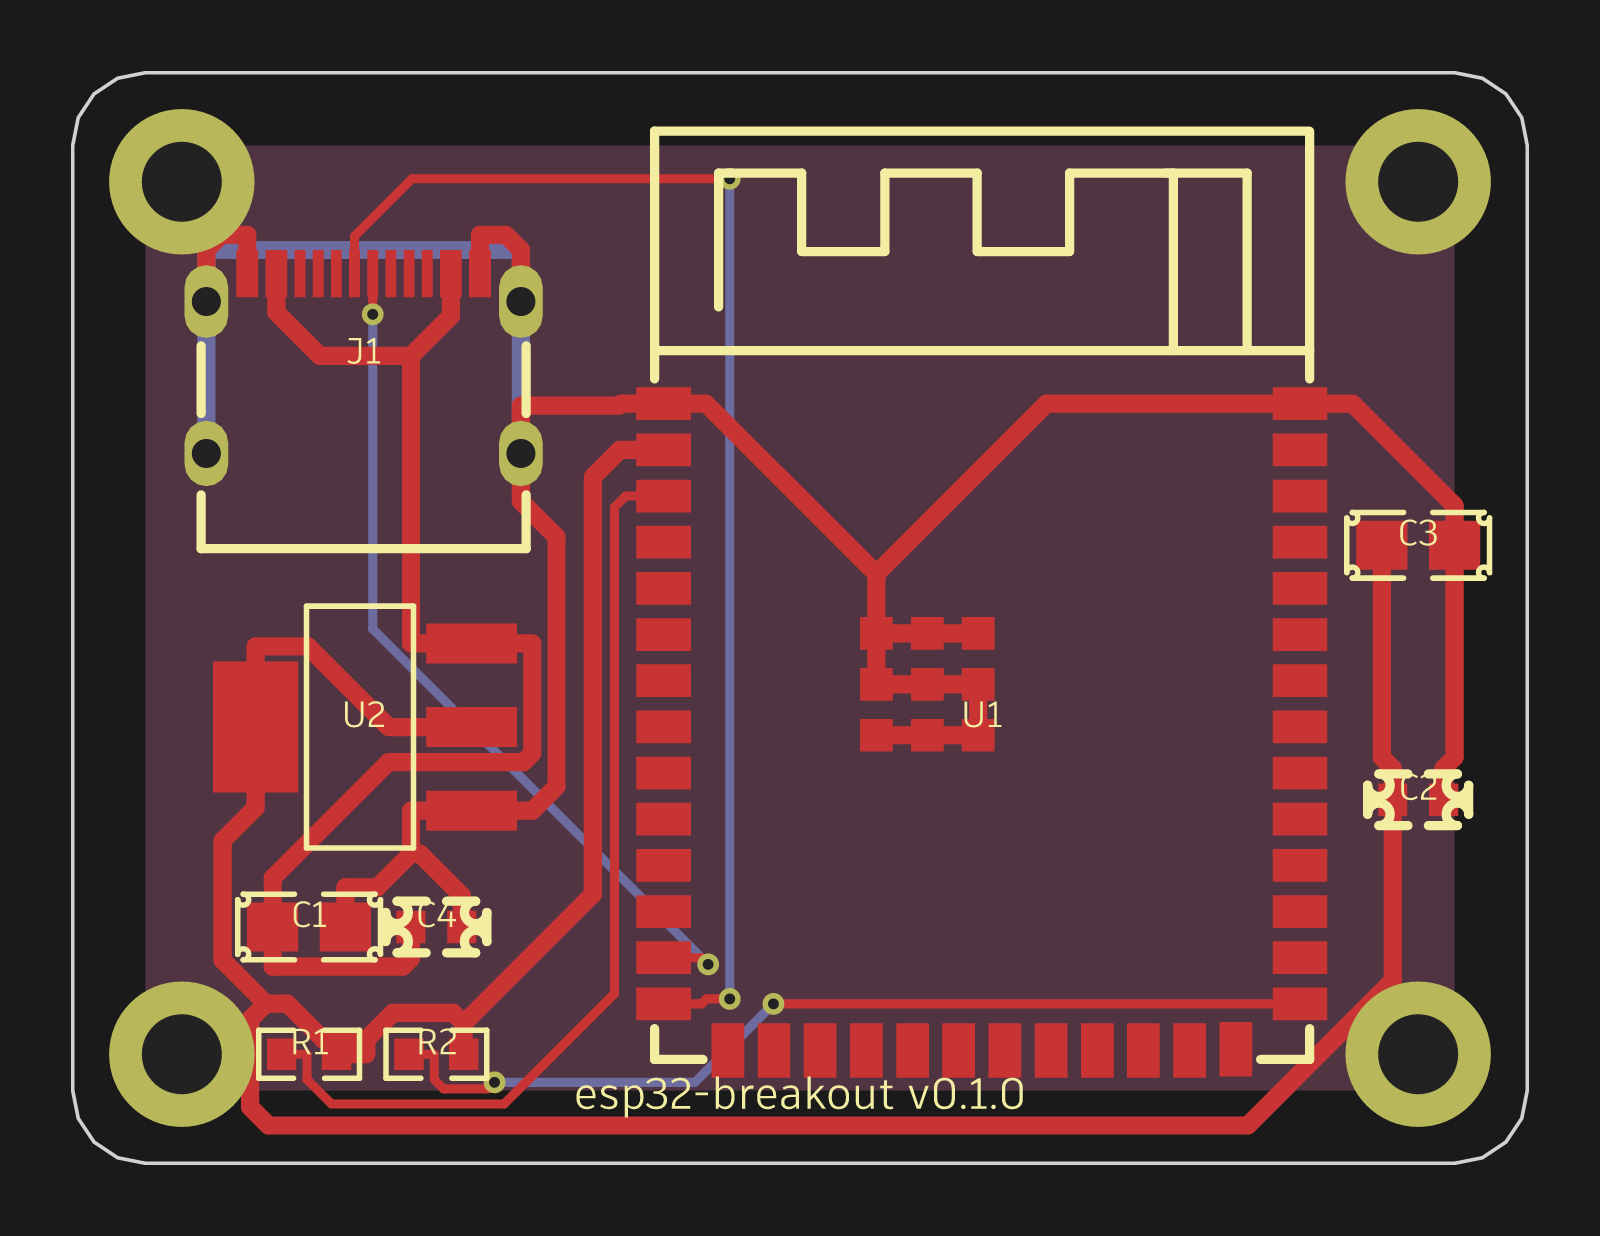
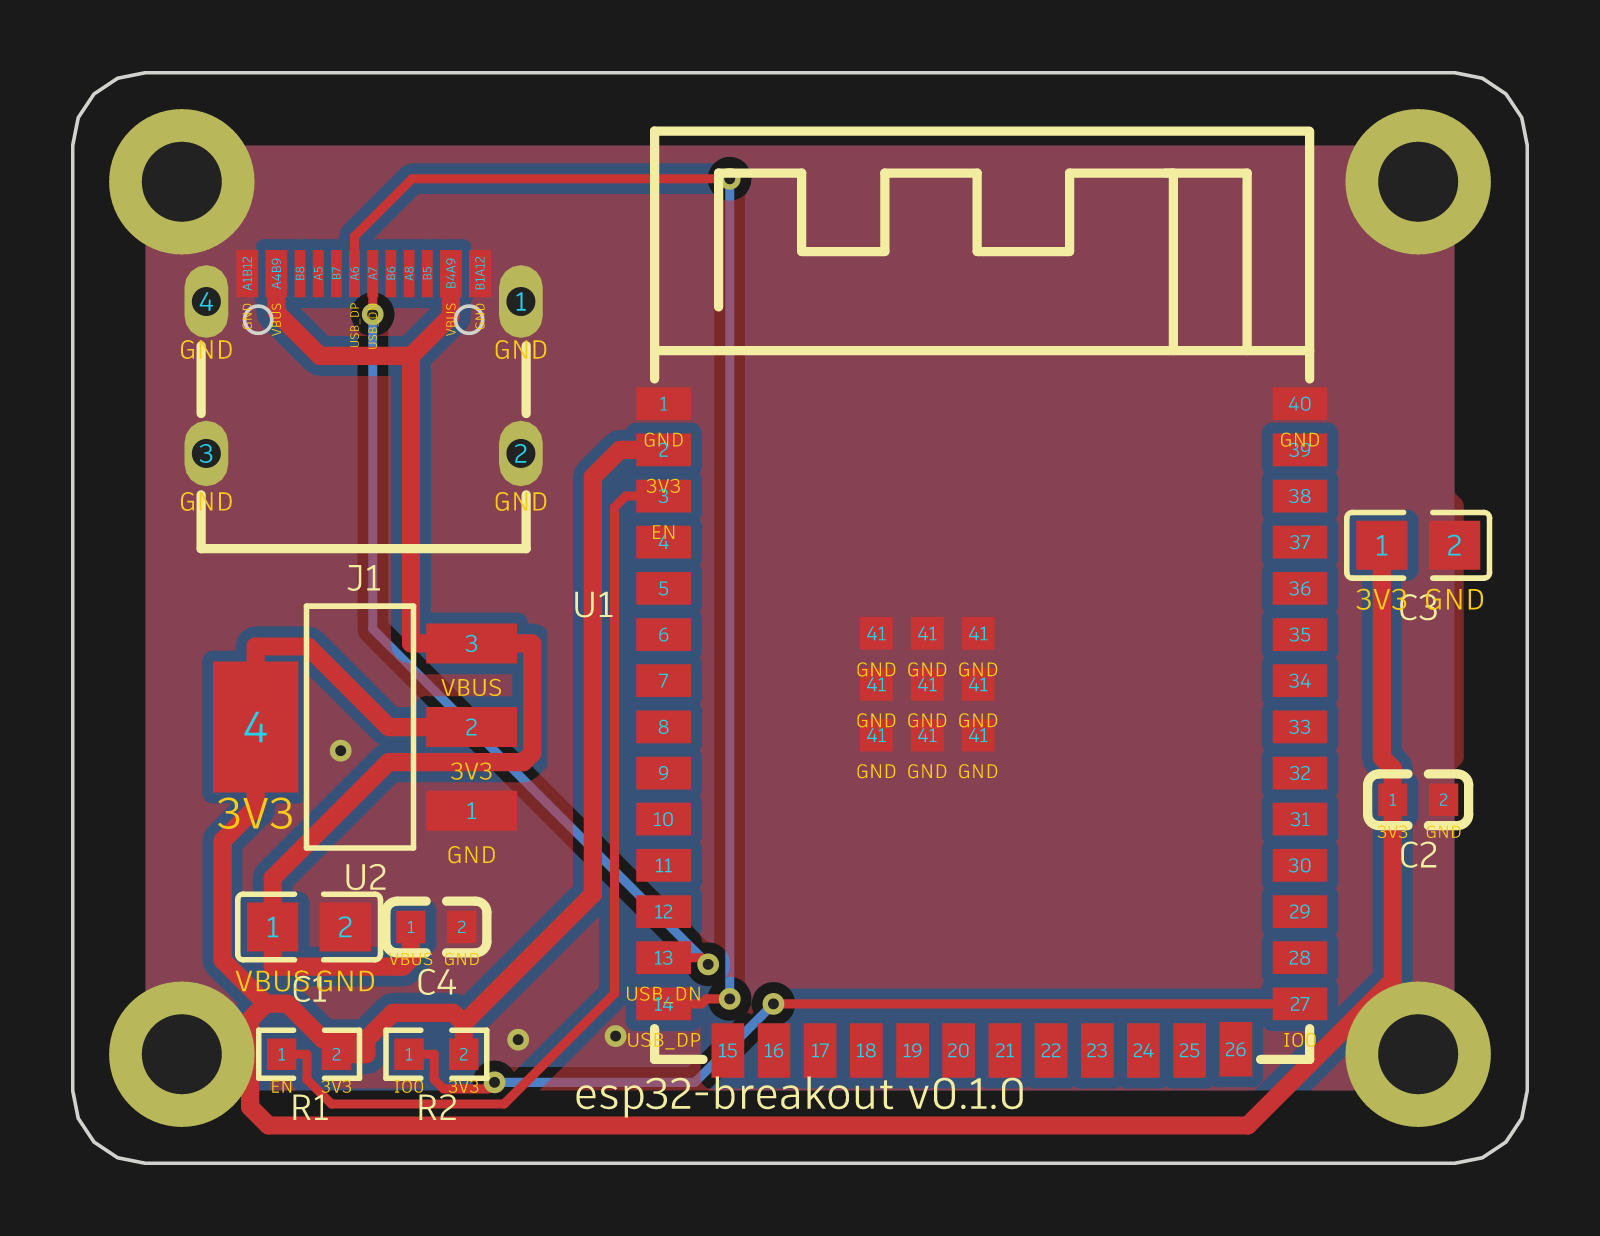
perf/fix: zone-fill culling + memo, open_board containment, autoroute race guard
- gerber: don't re-fill an already-filled board (export was filling twice)
- zonefill: bbox-prefilter obstacles before buffer/clip; memoize fillAllZones
  by board identity (safe: applyOp clones per op)
- mcp: open_board enforces the same .flamingo-inside-project rule as
  /api/open (boardSearchRoots shared, regression test added)
- autoroute: reject overlapping runs; abort if the board is edited while
  freerouting is out instead of importing routes against stale geometry
- screenshot: renderPNGDetailed returns overlay counts (no double DRC/ratsnest)
- ui: drag ghost uses shallow moved-component copies, not a per-frame
  structuredClone of the whole board

Claude-Session: https://claude.ai/code/session_01S7BfTdpYaAvcC6EhjkHhnM

diff --git a/packages/engine/src/zonefill.ts b/packages/engine/src/zonefill.ts
@@ -36,7 +36,7 @@
 import polygonClipping from 'polygon-clipping';
 import type { MultiPolygon, Polygon, Ring, Pair } from 'polygon-clipping';
 import type { Board, Point, Zone } from './types.js';
-import { expandTrack, padOutline, outlineToPolygon, isSlot, holeSlotCenterline, capsulePolygon, allHoles } from './geometry.js';
+import { bboxOf, expandTrack, padOutline, outlineToPolygon, isSlot, holeSlotCenterline, capsulePolygon, allHoles } from './geometry.js';
 import { copperLayersOf, padCopperLayers } from './layers.js';
 
 // ---------------------------------------------------------------------------
@@ -343,6 +343,22 @@ export function fillZone(b: Board, zone: Zone): Point[][] {
   }
   if (base.length === 0) return [];
 
+  // Bbox prefilter: an obstacle can only carve the fill if its clearance-
+  // expanded shape reaches the zone polygon, so anything whose raw bbox lies
+  // outside the zone bbox grown by clearance is skipped before we pay for
+  // bufferPolygon (a full clip union) or add operands to the difference clip.
+  const zb = bboxOf(zone.polygon);
+  const reach = {
+    minX: zb.minX - zone.clearance,
+    minY: zb.minY - zone.clearance,
+    maxX: zb.maxX + zone.clearance,
+    maxY: zb.maxY + zone.clearance,
+  };
+  const nearZone = (pts: Point[]): boolean => {
+    const o = bboxOf(pts);
+    return o.minX <= reach.maxX && o.maxX >= reach.minX && o.minY <= reach.maxY && o.maxY >= reach.minY;
+  };
+
   // Obstacles: every other-net copper item on this layer, clearance-expanded.
   const obstacles: MultiPolygon[] = [];
 
@@ -350,12 +366,13 @@ export function fillZone(b: Board, zone: Zone): Point[][] {
     if (t.layer !== zone.layer || t.net === zone.net) continue;
     // Expand the capsule by widening the track by 2*clearance (cheap + exact).
     const cap = expandTrack({ ...t, width: t.width + 2 * zone.clearance });
-    obstacles.push([[toRing(cap)]]);
+    if (nearZone(cap)) obstacles.push([[toRing(cap)]]);
   }
 
   for (const v of b.vias) {
     if (v.net === zone.net) continue; // vias span every copper layer
-    obstacles.push([[toRing(disk(v.at, v.diameter / 2 + zone.clearance))]]);
+    const d = disk(v.at, v.diameter / 2 + zone.clearance);
+    if (nearZone(d)) obstacles.push([[toRing(d)]]);
   }
 
   const cu = copperLayersOf(b);
@@ -364,7 +381,8 @@ export function fillZone(b: Board, zone: Zone): Point[][] {
       if (!padCopperLayers(pad, c.side, cu).includes(zone.layer)) continue;
       const net = netOfPin(b, `${c.refdes}.${pad.number}`);
       if (net === zone.net) continue;
-      obstacles.push(bufferPolygon(padOutline(c, pad), zone.clearance));
+      const outline = padOutline(c, pad);
+      if (nearZone(outline)) obstacles.push(bufferPolygon(outline, zone.clearance));
     }
   }
 
@@ -378,7 +396,7 @@ export function fillZone(b: Board, zone: Zone): Point[][] {
   for (const k of b.keepouts) {
     if (!k.keepout.copper && !k.keepout.pour) continue;
     if (k.layers !== 'all' && !k.layers.includes(zone.layer)) continue;
-    obstacles.push(bufferPolygon(k.polygon, zone.clearance));
+    if (nearZone(k.polygon)) obstacles.push(bufferPolygon(k.polygon, zone.clearance));
   }
 
   // Slotted mounting holes are milled cutouts (e.g. a slot to pass a display
@@ -388,7 +406,8 @@ export function fillZone(b: Board, zone: Zone): Point[][] {
   for (const h of allHoles(b)) {
     if (!isSlot(h)) continue;
     const { start, end } = holeSlotCenterline(h);
-    obstacles.push(bufferPolygon(capsulePolygon(start, end, h.padDiameter / 2), zone.clearance));
+    const capsule = capsulePolygon(start, end, h.padDiameter / 2);
+    if (nearZone(capsule)) obstacles.push(bufferPolygon(capsule, zone.clearance));
   }
 
   const filled: MultiPolygon =
@@ -411,7 +430,19 @@ export function fillZone(b: Board, zone: Zone): Point[][] {
   return rings;
 }
 
+/**
+ * Identity-keyed memo for fillAllZones. Safe because boards are handled
+ * immutably everywhere that matters: applyOp structuredClone()s the board on
+ * every op, so any content change yields a new object (= a cache miss), and
+ * callers treat the returned filled copy as read-only.
+ */
+const fillCache = new WeakMap<Board, Board>();
+
 /** Return a copy of `b` with every zone's `fill` populated by `fillZone`. */
 export function fillAllZones(b: Board): Board {
-  return { ...b, zones: b.zones.map((z) => ({ ...z, fill: fillZone(b, z) })) };
+  const hit = fillCache.get(b);
+  if (hit) return hit;
+  const filled = { ...b, zones: b.zones.map((z) => ({ ...z, fill: fillZone(b, z) })) };
+  fillCache.set(b, filled);
+  return filled;
 }

diff --git a/packages/server/src/mcp.ts b/packages/server/src/mcp.ts
@@ -1,5 +1,5 @@
 import { mkdir, readFile, writeFile } from 'node:fs/promises';
-import { dirname, isAbsolute, join } from 'node:path';
+import { dirname, extname, isAbsolute, join, resolve, sep } from 'node:path';
 import { z } from 'zod';
 import { McpServer } from '@modelcontextprotocol/sdk/server/mcp.js';
 import type { CallToolResult } from '@modelcontextprotocol/sdk/types.js';
@@ -43,7 +43,7 @@ import type { JlcStock, PartInfo, SearchOpts } from '@flamingo/parts';
 import type { Doc } from './document.js';
 import type { RouteRunner } from './route.js';
 import { formatAutorouteSummary, runAutorouteBroadcast } from './autoroute.js';
-import { pngDimensions, renderPNG } from './screenshot.js';
+import { pngDimensions, renderPNGDetailed } from './screenshot.js';
 import { checkStock, stockCheckEnabled } from './stock.js';
 import { exportStep } from './step.js';
 
@@ -208,6 +208,15 @@ export function resolveFabOutDir(ctx: McpContext, outDir?: string): string {
   if (outDir) return isAbsolute(outDir) ? outDir : join(ctx.projectDir, outDir);
   const base = ctx.doc.filePath ? dirname(ctx.doc.filePath) : ctx.projectDir;
   return join(base, 'fab');
+}
+
+/**
+ * Directories a board may be opened from (and /api/projects lists from).
+ * Shared by the open_board MCP tool and the /api/open + /api/projects HTTP
+ * routes so all three enforce the same containment boundary.
+ */
+export function boardSearchRoots(ctx: McpContext): string[] {
+  return [...new Set([resolve(ctx.projectDir), resolve(process.cwd())])];
 }
 
 // ---------------------------------------------------------------------------
@@ -376,7 +385,12 @@ export function createMcpServer(ctx: McpContext): McpServer {
       },
     },
     async ({ path }) => {
-      const abs = isAbsolute(path) ? path : join(ctx.projectDir, path);
+      const abs = resolve(isAbsolute(path) ? path : join(ctx.projectDir, path));
+      // Same containment rule as POST /api/open: a .flamingo file inside the
+      // project — never an arbitrary file elsewhere on disk.
+      if (extname(abs) !== '.flamingo' || !boardSearchRoots(ctx).some((r) => abs.startsWith(r + sep))) {
+        return errorResult(`path must be a .flamingo file inside the project (got "${abs}")`);
+      }
       let data: string;
       try {
         data = await readFile(abs, 'utf8');
@@ -1206,18 +1220,18 @@ export function createMcpServer(ctx: McpContext): McpServer {
       },
     },
     ({ layers, region, highlightNet, widthPx, showRatsnest, showDrc }): CallToolResult => {
-      // Fill zones (working copy) before counting: renderPNG fills internally
-      // for the overlay, so counting on the raw board would report phantom
-      // zone-outline violations/ratlines that the image doesn't show.
-      const board =
-        ctx.doc.board.zones.some((z) => !z.fill) ? fillAllZones(ctx.doc.board) : ctx.doc.board;
-      const png = renderPNG(board, { layers, region, highlightNet, widthPx, showRatsnest, showDrc });
+      const { png, drcCount, ratlineCount } = renderPNGDetailed(ctx.doc.board, {
+        layers,
+        region,
+        highlightNet,
+        widthPx,
+        showRatsnest,
+        showDrc,
+      });
       const { width, height } = pngDimensions(png);
 
-      const drcCount = showDrc === false ? 0 : runDRC(board).length;
-      const ratCount = showRatsnest === false ? 0 : ratsnest(board).length;
       const layerStr = layers && layers.length > 0 ? layers.join(',') : 'all layers';
-      const summary = `${width}x${height}px, layers: ${layerStr}, ${drcCount} DRC marker(s), ${ratCount} ratline(s)`;
+      const summary = `${width}x${height}px, layers: ${layerStr}, ${drcCount} DRC marker(s), ${ratlineCount} ratline(s)`;
 
       return {
         content: [

diff --git a/packages/server/src/autoroute.ts b/packages/server/src/autoroute.ts
@@ -66,12 +66,37 @@ export interface AutorouteResult {
   unstitchedIslands: { layer: string; net: string; area: number; at: { x: number; y: number } }[];
 }
 
+/** Docs with an autoroute pipeline currently in flight (rejects overlapping runs). */
+const activeRoutes = new WeakSet<Doc>();
+
 /**
  * Run the full autoroute pipeline against `doc` using `route`. Mutates the
  * document (unroute + addTracks). Throws an Error with a human-readable message
  * on any failure (bad unroute op, router error, SES parse error, apply error).
+ *
+ * Concurrency: freerouting can run for minutes and the pipeline interleaves
+ * doc.apply calls with those awaits, so only one run per Doc is allowed at a
+ * time, and any board edit that lands while freerouting is out (every
+ * doc.apply swaps in a new board object, so an identity check detects it)
+ * aborts the run instead of importing routes against stale geometry.
  */
 export async function runAutoroute(
+  doc: Doc,
+  route: RouteRunner,
+  opts: AutorouteOptions = {},
+): Promise<AutorouteResult> {
+  if (activeRoutes.has(doc)) {
+    throw new Error('an autoroute is already running for this board — wait for it to finish (or watch routeStatus)');
+  }
+  activeRoutes.add(doc);
+  try {
+    return await runAutoroutePipeline(doc, route, opts);
+  } finally {
+    activeRoutes.delete(doc);
+  }
+}
+
+async function runAutoroutePipeline(
   doc: Doc,
   route: RouteRunner,
   opts: AutorouteOptions = {},
@@ -93,6 +118,9 @@ export async function runAutoroute(
   const board: Board = doc.board;
   const dsn = exportDSN(board, netList ? { nets: netList } : {});
   const ses = await route.run(dsn, runOpts(opts, 'route'));
+  if (doc.board !== board) {
+    throw new Error('board was edited while freerouting was running — routes discarded, rerun autoroute');
+  }
   const { tracks, vias } = importSES(ses, board);
 
   // 5. Apply the routed geometry.
@@ -136,7 +164,11 @@ export async function runAutoroute(
       shadow.tracks = shadow.tracks.filter((t) => !thinNets.includes(t.net));
       shadow.vias = shadow.vias.filter((v) => !thinNets.includes(v.net));
       const dsn2 = exportDSN(shadow, { nets: thinNets });
+      const boardBeforeRetry = doc.board;
       const ses2 = await route.run(dsn2, runOpts(opts, 'retry'));
+      if (doc.board !== boardBeforeRetry) {
+        throw new Error('board was edited while freerouting was running — routes discarded, rerun autoroute');
+      }
       const imported = importSES(ses2, doc.board);
       const applyRes2 = doc.apply({ op: 'addTracks', tracks: imported.tracks, vias: imported.vias });
       if (!applyRes2.ok) throw new Error((applyRes2 as OpError).error);

diff --git a/packages/server/src/screenshot.ts b/packages/server/src/screenshot.ts
@@ -38,12 +38,22 @@ export function resolveWidthPx(widthPx?: number): number {
   return Math.min(widthPx, MAX_WIDTH_PX);
 }
 
+export interface RenderPNGDetail {
+  png: Buffer;
+  /** DRC violation count drawn on the image (0 when showDrc: false). */
+  drcCount: number;
+  /** Ratline count drawn on the image (0 when showRatsnest: false). */
+  ratlineCount: number;
+}
+
 /**
- * Render `b` to a PNG buffer. Always computes ratsnest when `showRatsnest`
- * (default true) and runs DRC when `showDrc` (default true), so Claude sees
- * unrouted nets and rule violations by default.
+ * Render `b` to a PNG buffer plus the overlay counts. Always computes
+ * ratsnest when `showRatsnest` (default true) and runs DRC when `showDrc`
+ * (default true), so Claude sees unrouted nets and rule violations by
+ * default. The counts are returned so callers building a summary line don't
+ * re-run DRC/ratsnest on top of the render.
  */
-export function renderPNG(b: Board, opts: ScreenshotOpts = {}): Buffer {
+export function renderPNGDetailed(b: Board, opts: ScreenshotOpts = {}): RenderPNGDetail {
   // The live board never carries zone fills (only the export path fills a
   // copy), so pour the zones here — screenshots should show real copper, and
   // ratsnest/DRC below then also see the filled board.
@@ -53,6 +63,8 @@ export function renderPNG(b: Board, opts: ScreenshotOpts = {}): Buffer {
   const showDrc = opts.showDrc !== false;
   const { layers, showPadLabels, showNetLabels } = splitLabelLayers(opts.layers);
 
+  const rats = showRatsnest ? ratsnest(b) : undefined;
+  const drc = showDrc ? runDRC(b) : undefined;
   const svg = renderSVG(b, {
     layers,
     region: opts.region,
@@ -61,12 +73,17 @@ export function renderPNG(b: Board, opts: ScreenshotOpts = {}): Buffer {
     showRatsnest,
     showPadLabels,
     showNetLabels,
-    ratsnest: showRatsnest ? ratsnest(b) : undefined,
-    drcMarkers: showDrc ? runDRC(b).map((v) => v.at) : undefined,
+    ratsnest: rats,
+    drcMarkers: drc?.map((v) => v.at),
   });
 
   const resvg = new Resvg(svg);
-  return resvg.render().asPng();
+  return { png: resvg.render().asPng(), drcCount: drc?.length ?? 0, ratlineCount: rats?.length ?? 0 };
+}
+
+/** Render `b` to a PNG buffer. See renderPNGDetailed. */
+export function renderPNG(b: Board, opts: ScreenshotOpts = {}): Buffer {
+  return renderPNGDetailed(b, opts).png;
 }
 
 /** Decode width/height from a PNG buffer's IHDR chunk (8-byte sig + 4-byte length + "IHDR" + 4-byte width + 4-byte height, big-endian). */

diff --git a/packages/ui/src/tools/select.ts b/packages/ui/src/tools/select.ts
@@ -86,20 +86,20 @@ export function componentDropOp(
   delta: Point,
 ): Op {
   const moves = drag.map((d) => ({ refdes: d.refdes, at: { x: d.startAt.x + delta.x, y: d.startAt.y + delta.y } }));
-  const moved = new Set(moves.map((m) => m.refdes));
-  // Post-move anchors from a shadow board.
-  const shadow: Board = structuredClone(board);
-  for (const m of moves) {
-    const c = shadow.components.find((x) => x.refdes === m.refdes);
-    if (c) c.at = m.at;
-  }
+  // Post-move anchors: padWorld only reads at/rotation/side, so a shallow
+  // copy with the dropped `at` stands in for the moved component. (This runs
+  // per overlay frame while dragging — no board-sized clones here.)
+  const seen = new Set<string>();
   const reshapeMoves: { trackId: string; end: 'start' | 'end'; newAt: Point }[] = [];
-  for (const refdes of moved) {
-    const c = shadow.components.find((x) => x.refdes === refdes);
-    if (!c) continue;
+  for (const m of moves) {
+    if (seen.has(m.refdes)) continue;
+    seen.add(m.refdes);
+    const orig = board.components.find((x) => x.refdes === m.refdes);
+    if (!orig) continue;
+    const c = { ...orig, at: m.at };
     for (const pad of c.footprint.pads) {
       const newAt = padWorld(c, pad).at;
-      for (const h of tracksAtPad(board, refdes, pad.number)) {
+      for (const h of tracksAtPad(board, m.refdes, pad.number)) {
         reshapeMoves.push({ trackId: h.trackId, end: h.end, newAt });
       }
     }

diff --git a/packages/server/test/mcp.test.ts b/packages/server/test/mcp.test.ts
@@ -646,6 +646,27 @@ describe('MCP endpoint', () => {
     expect(doc.board.name).toBe('other');
   });
 
+  it('open_board refuses paths outside the project and non-.flamingo files', async () => {
+    const escape = await client.callTool({
+      name: 'open_board',
+      arguments: { path: join('..', '..', 'etc', 'passwd') },
+    });
+    expect(escape.isError).toBe(true);
+    expect(textOf(escape as any)).toContain('.flamingo file inside the project');
+
+    const absolute = await client.callTool({
+      name: 'open_board',
+      arguments: { path: '/etc/passwd' },
+    });
+    expect(absolute.isError).toBe(true);
+
+    const wrongExt = await client.callTool({
+      name: 'open_board',
+      arguments: { path: 'board.json' },
+    });
+    expect(wrongExt.isError).toBe(true);
+  });
+
   it('autoroute (mocked router) adds tracks and reports full routing', async () => {
     await client.callTool({ name: 'place_component', arguments: { lcsc: 'C25804', refdes: 'R1', x: 0, y: 0 } });
     await client.callTool({ name: 'place_component', arguments: { lcsc: 'C25804', refdes: 'R2', x: 5, y: 0 } });

diff --git a/packages/server/src/http.ts b/packages/server/src/http.ts
@@ -16,7 +16,7 @@ import { extractModel3d, fetchJlcStock, fetchPart, readCache, searchParts } from
 import { runAutorouteBroadcast } from './autoroute.js';
 import { Doc } from './document.js';
 import type { McpContext, PartsApi } from './mcp.js';
-import { createMcpServer, resolveFabOutDir } from './mcp.js';
+import { boardSearchRoots, createMcpServer, resolveFabOutDir } from './mcp.js';
 import type { RouteRunner } from './route.js';
 import { defaultRouteRunner } from './route.js';
 import type { ScreenshotOpts } from './screenshot.js';
@@ -130,11 +130,6 @@ async function serveStatic(pathname: string, res: ServerResponse, uiDistDir: str
       return false;
     }
   }
-}
-
-/** Directories /api/projects lists boards from (and /api/open may open from). */
-function boardSearchRoots(ctx: McpContext): string[] {
-  return [...new Set([resolve(ctx.projectDir), resolve(process.cwd())])];
 }
 
 const SCAN_SKIP_DIRS = new Set(['node_modules', '.git', 'dist', 'fab', 'fixtures']);

diff --git a/packages/fab/src/gerber.ts b/packages/fab/src/gerber.ts
@@ -472,7 +472,9 @@ function fileStem(name: string): string {
 
 /** Render `b` to a complete Gerber X2 + Excellon fileset keyed by filename. */
 export function generateGerbers(b: Board): FabFiles {
-  const filled = fillAllZones(b);
+  // An already-filled board (e.g. from exportFab) is used as-is; only refill
+  // when some zone lacks copper, matching the run_drc/screenshot convention.
+  const filled = b.zones.some((z) => !z.fill) ? fillAllZones(b) : b;
   const name = fileStem(b.name);
   const files = new Map<string, string>();
 
